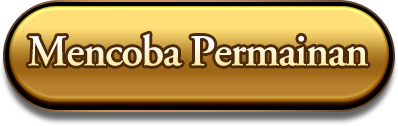
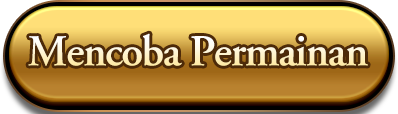
Refactor code structure for improved readability and maintainability

diff --git a/src/App.tsx b/src/App.tsx
@@ -5,7 +5,9 @@ import jv88top from './assets/imgs/1779437088166&H6LD6KE9X8&logo.png'
 import bisaTopUp from './assets/imgs/bisa top up.png'
 import mencobaBtn from './assets/imgs/mencobaBtn.png'
 import gunakanAplikasi from './assets/imgs/gunakan aplikasi.png'
-import downloadBanner from './assets/imgs/1779430372473&RGUHFQYQJC&footer.png'
+import banner_trans from './assets/imgs/tyty.png'
+import btn_down from './assets/imgs/down.png'
+import btn_web from './assets/imgs/webbtnfl.png'
 import QRcode from './assets/imgs/QRcode-en.png'
 import service_button from './assets/imgs/service-button.png'
 
@@ -60,27 +62,6 @@ function App() {
   const [gameSectionVisible, setGameSectionVisible] = useState(false)
   const [gameDmSectionVisible, setGameDmSectionVisible] = useState(false)
 
-  // useEffect(() => {
-  //   const section = gameSectionRef.current
-
-  //   if (!section) return
-
-  //   const observer = new IntersectionObserver(
-  //     ([entry]) => {
-  //       setGameSectionVisible(entry.isIntersecting)
-  //     },
-  //     {
-  //       threshold: 0.25,
-  //     }
-  //   )
-
-  //   observer.observe(section)
-
-  //   return () => {
-  //     observer.disconnect()
-  //   }
-  // }, [])
-
   useEffect(() => {
     const gameSection = gameSectionRef.current
     const gameDmSection = gameDmSectionRef.current
@@ -114,6 +95,7 @@ function App() {
       observer.disconnect()
     }
   }, [])
+
 
   return (
     <div className="min-h-screen bg-white">
@@ -156,7 +138,7 @@ function App() {
                   mx-auto
                   block
                   w-[90%]
-                  animate-pulse
+                  animate-custom-bounce
                 "
               />
 
@@ -232,26 +214,57 @@ function App() {
             {/* =================================================
                 BOUTON Mencoba Permainan
             ================================================== */}
-            <button
-              type="button"
+            <div
               className="
                 relative
                 z-30
-                mx-auto
-                block
-                w-[60%]
-                transition-transform
-                duration-100
-                hover:scale-[1.01]
-                active:scale-95
+                flex
+                w-full
+                items-center
+                justify-center
               "
             >
-              <img
-                src={mencobaBtn}
-                alt="Mencoba Permainan"
-                className="block w-full"
-              />
-            </button>
+              <p></p>
+              {/* Mencoba Permainan */}
+              <button
+                type="button"
+                className=" text-center
+                  block
+                  w-[60%]
+                  transition-transform
+                  duration-100
+                  hover:scale-[1.01]
+                  active:scale-95
+                "
+              >
+                <img
+                  src={mencobaBtn}
+                  alt="Mencoba Permainan"
+                  className="block w-full"
+                />
+              </button>
+
+              {/* Web */}
+              <button
+                type="button"
+                className=" absolute
+                  block
+                  w-[16%]
+                  max-w-40 right-2
+                  min-w-12
+                  transition-transform
+                  duration-200
+                  hover:scale-105
+                  active:scale-95
+                "
+              >
+                <img
+                  src={btn_web}
+                  alt="Web"
+                  className="block w-full"
+                />
+              </button>
+            </div>
 
             {/* =================================================
                 DESCRIPTION
@@ -584,40 +597,39 @@ function App() {
 
           {/* GAME DM IMAGES CONTENUS */}
           <section
-  ref={gameDmSectionRef}
-  className="mt-3 px-4 pb-10"
->
-  <div className="flex flex-col space-y-2">
-    {imagesDm.map((imgDm, index) => (
-      <img
-        key={index}
-        src={imgDm}
-        alt={`Game demo ${index + 1}`}
-        className={`
-          game-dm-image
-          h-auto
-          w-full
-          ${
-            gameDmSectionVisible
-              ? 'game-dm-image-show'
-              : 'game-dm-image-hide'
-          }
-        `}
-        style={{
-          animationDelay: gameDmSectionVisible
-            ? `${index * 80}ms`
-            : '0ms',
-        }}
-      />
-    ))}
-  </div>
-</section>
+            ref={gameDmSectionRef}
+            className="mt-3 px-4 pb-10"
+          >
+            <div className="flex flex-col space-y-2">
+              {imagesDm.map((imgDm, index) => (
+                <img
+                  key={index}
+                  src={imgDm}
+                  alt={`Game demo ${index + 1}`}
+                  className={`
+                    game-dm-image
+                    h-auto
+                    w-full
+                    ${gameDmSectionVisible
+                      ? 'game-dm-image-show'
+                      : 'game-dm-image-hide'
+                    }
+                  `}
+                  style={{
+                    animationDelay: gameDmSectionVisible
+                      ? `${index * 80}ms`
+                      : '0ms',
+                  }}
+                />
+              ))}
+            </div>
+          </section>
 
         </main>
 
       </div>
 
-      {/* downolad banner */}
+      {/* DOWNLOAD BANNER */}
       <div
         className="
           fixed
@@ -629,11 +641,51 @@ function App() {
           xl:max-w-210
         "
       >
-        <img
-          src={downloadBanner}
-          alt="Download JV88"
-          className="block w-full"
-        />
+
+        {/* Banner */}
+        <div className="relative w-full">
+
+          {/* Download button */}
+          <div
+            className="
+              absolute
+              inset-0
+              z-20
+              flex
+              items-center
+              justify-end
+              pr-[1.5%]
+              pointer-events-none
+            "
+          >
+            <button
+              type="button"
+              className="
+                pointer-events-auto relative -right-1 cursor-pointer
+                w-[27%]
+                max-w-90
+                transition-transform
+                duration-200
+                hover:scale-101
+                active:scale-95
+              "
+            >
+              <img
+                src={btn_down}
+                alt="Download"
+                className="block w-full"
+              />
+            </button>
+          </div>
+
+          {/* Banner */}
+          <img
+            src={banner_trans}
+            alt="JV88"
+            className="block w-full border-t border-[#603614]"
+          />
+
+        </div>
       </div>
     </div>
   )

diff --git a/src/App.css b/src/App.css
@@ -95,3 +95,20 @@
     transform: scale(0.88);
   }
 }
+
+/* logo top jv88 */
+@keyframes custom-bounce {
+  0%,
+  100% {
+    transform: translateY(-4%);
+    animation-timing-function: cubic-bezier(0.8, 0, 1, 1);
+  }
+
+  50% {
+    transform: translateY(0);
+    animation-timing-function: cubic-bezier(0, 0, 0.2, 1);
+  }
+}
+.animate-custom-bounce {
+  animation: custom-bounce 1s infinite;
+}

diff --git a/index.html b/index.html
@@ -2,9 +2,9 @@
 <html lang="en">
   <head>
     <meta charset="UTF-8" />
-    <link rel="icon" type="image/svg+xml" href="/favicon.svg" />
+    <link rel="icon" type="image/png" href="/logo.png" />
     <meta name="viewport" content="width=device-width, initial-scale=1.0" />
-    <title>landing</title>
+    <title>JAVO88</title>
   </head>
   <body>
     <div id="root"></div>
